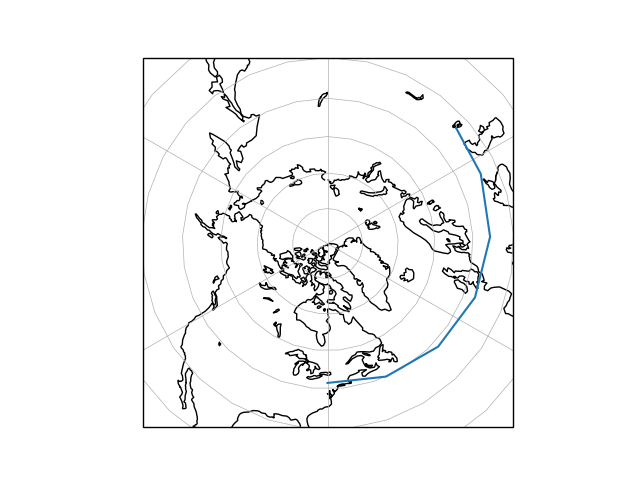
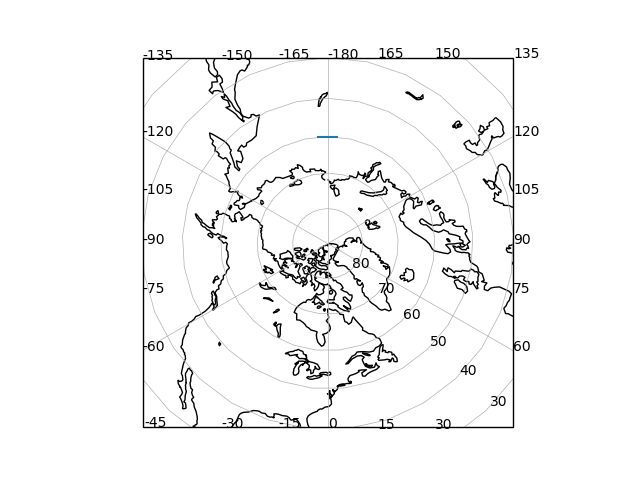
long and lat working first take

diff --git a/aacgm_carto.py b/aacgm_carto.py
@@ -2,7 +2,7 @@ import cartopy
 from cartopy.mpl.geoaxes import GeoAxes
 import aacgmv2
 import numpy
-from shapely.geometry import  MultiLineString, mapping, shape
+from shapely.geometry import  MultiLineString, mapping, LineString, Polygon
 from matplotlib.projections import register_projection
 import copy
 import datetime
@@ -13,62 +13,57 @@ class AxesAACGM(GeoAxes):
         
     def __init__(self, *args, **kwargs):
         if "map_projection" in kwargs:
-            map_projection=kwargs.pop("map_projection")
+            map_projection = kwargs.pop("map_projection")
         else:
             map_projection = cartopy.crs.NorthPolarStereo()
             print("map_projection keyword not set, setting it to cartopy.crs.NorthPolarStereo()")
+        # first check if datetime keyword is given!
+        # it should be since we need it for aacgm
+        if "plot_date" in kwargs:
+            self.plot_date = kwargs.pop("plot_date")
+        else:
+            raise TypeError("need to provide a date using 'plot_date' keyword for aacgmv2 plotting")
+        # Now work with the coords!
+        supported_coords = [ "geo", "aacgmv2", "aacgmv2_mlt" ]
+        if "coords" in kwargs:
+            self.coords = kwargs.pop("coords")
+            if self.coords not in supported_coords:
+                err_str = "coordinates not supported, choose from : "
+                for _n,_sc in enumerate(supported_coords):
+                    if _n + 1 != len(supported_coords):
+                        err_str += _sc + ", "
+                    else:
+                        err_str += _sc
+                raise TypeError(err_str)
+        else:
+            self.coords = "aacgmv2"
+            print("coords keyword not set, setting it to aacgmv2")
+        # finally, initialize te GeoAxes object
         GeoAxes.__init__(self, map_projection=map_projection,*args, **kwargs)
 
-    def overaly_coast_lakes(self, coords="aacgmv2", plot_date=None,\
-                  resolution='110m', color='black', **kwargs):
+    def overaly_coast_lakes(self, resolution='110m', color='black', **kwargs):
         """
         Overlay AACGM coastlines and lakes
         """
-        supported_coords = [ "geo", "aacgmv2", "aacgmv2_mlt" ]
-        if coords not in supported_coords:
-            print("coordinates not supported, choose from ", supported_coords)
-            return
-        if (coords != "geo") and (datetime == None):
-            print("Your need to set datetime keyword for plotting in AACGM")
-            return
-
         kwargs['edgecolor'] = color
         kwargs['facecolor'] = 'none'
         # overaly coastlines
         feature = cartopy.feature.NaturalEarthFeature('physical', 'coastline',
                                                       resolution, **kwargs)
-        self.add_feature( cartopy.feature.COASTLINE, coords=coords,\
-                                plot_date=plot_date, **kwargs )
-        self.add_feature( cartopy.feature.LAKES, coords=coords,\
-                                plot_date=plot_date, **kwargs )
+        self.add_feature( cartopy.feature.COASTLINE, **kwargs )
+        self.add_feature( cartopy.feature.LAKES, **kwargs )
         
-    def coastlines(self, coords="aacgmv2", plot_date=None,\
-                  resolution='110m', color='black', **kwargs):
-        supported_coords = [ "geo", "aacgmv2", "aacgmv2_mlt" ]
-        if coords not in supported_coords:
-            print("coordinates not supported, choose from ", supported_coords)
-            return
-        if (coords != "geo") and (datetime == None):
-            print("Your need to set datetime keyword for plotting in AACGM")
-            return
-        # actual details!
+    def coastlines(self,resolution='110m', color='black', **kwargs):
+        # details!
         kwargs['edgecolor'] = color
         kwargs['facecolor'] = 'none'
         feature = cartopy.feature.NaturalEarthFeature('physical', 'coastline',
                                                       resolution, **kwargs)
-        return self.add_feature(feature, coords=coords,\
-                                plot_date=plot_date, **kwargs)
+        return self.add_feature(feature, **kwargs)
         
-    def add_feature(self, feature, coords="aacgmv2", plot_date=None, **kwargs):
-        supported_coords = [ "geo", "aacgmv2", "aacgmv2_mlt" ]
-        if coords not in supported_coords:
-            print("coordinates not supported, choose from ", supported_coords)
-            return
-        if (coords != "geo") and (datetime == None):
-            print("Your need to set datetime keyword for plotting in AACGM")
-            return
-        aacgm_geom = self.get_aacgm_geom(feature, plot_date)
-        aacgm_feature = cartopy.feature.ShapelyFeature(aacgm_geom, cartopy.crs.PlateCarree(),\
+    def add_feature(self, feature, **kwargs):
+        aacgm_geom = self.get_aacgm_geom(feature)
+        aacgm_feature = cartopy.feature.ShapelyFeature(aacgm_geom, cartopy.crs.Geodetic(),\
                                                  **kwargs)
         # Now we'll set facecolor as None because aacgm doesn't close
         # continents near equator and it turns into a problem
@@ -79,7 +74,7 @@ class AxesAACGM(GeoAxes):
         kwargs['facecolor'] = "none"
         super().add_feature(aacgm_feature, **kwargs)
         
-    def get_aacgm_geom(self, feature, plot_date, out_height=300. ):
+    def get_aacgm_geom(self, feature, out_height=300. ):
         new_i = []
         # cartopy.feature.COASTLINE
         for _n,i in enumerate(feature.geometries()):
@@ -94,7 +89,7 @@ class AxesAACGM(GeoAxes):
                 else:
                     _loop_list = _list
                 for _ngc, _gc in enumerate(_loop_list):
-                    _mc = aacgmv2.get_aacgm_coord(_gc[1], _gc[0], out_height, plot_date)
+                    _mc = aacgmv2.get_aacgm_coord(_gc[1], _gc[0], out_height, self.plot_date)
                     if numpy.isnan(_mc[0]):
                         continue 
                     mlon_check_jump_list.append( _mc[1] )
@@ -129,6 +124,91 @@ class AxesAACGM(GeoAxes):
         aacgm_coast = MultiLineString( new_i )
         return aacgm_coast
 
+    def mark_latitudes(self, lat_arr, lon_location=45, **kwargs):
+        """
+        mark the latitudes
+        Write down the latitudes on the map for labeling!
+        we are using this because cartopy doesn't have a 
+        label by default for non-rectangular projections!
+        """
+        if isinstance(lat_arr, list):
+            lat_arr = numpy.array(lat_arr)
+        else:
+            if not isinstance(lat_arr, numpy.ndarray):
+                raise TypeError('lat_arr must either be a list or numpy array')
+        # make an array of lon_location
+        lon_location_arr = numpy.full( lat_arr.shape, lon_location )
+        proj_xyz = self.projection.transform_points(\
+                            cartopy.crs.Geodetic(),\
+                            lon_location_arr,\
+                            lat_arr
+                            )
+        # plot the lats now!
+        out_extent_lats = False
+        for _np,_pro in enumerate(proj_xyz[..., :2].tolist()):
+            # check if lats are out of extent! if so ignore them
+            lat_lim = self.get_extent(crs=cartopy.crs.Geodetic())[2::]
+            if (lat_arr[_np] >= min(lat_lim)) and (lat_arr[_np] <= max(lat_lim)):
+                self.text( _pro[0], _pro[1], str(lat_arr[_np]), **kwargs)
+            else:
+                out_extent_lats = True
+        if out_extent_lats:
+            print( "some lats were out of extent ignored them" )
+
+    def mark_longitudes(self, lon_arr, **kwargs):
+        """
+        mark the latitudes
+        Write down the latitudes on the map for labeling!
+        we are using this because cartopy doesn't have a 
+        label by default for non-rectangular projections!
+        """
+        if isinstance(lon_arr, list):
+            lon_arr = numpy.array(lon_arr)
+        else:
+            if not isinstance(lon_arr, numpy.ndarray):
+                raise TypeError('lat_arr must either be a list or numpy array')
+        # plot_outline = LineString(self.outline_patch.get_path().vertices.tolist())
+
+        [x1, y1], [x2, y2] = self.viewLim.get_points()
+
+        lsa = []
+
+        lsa.append( LineString(([-x1, y1], [x2, y2])) )
+        lsa.append( LineString(([x1, -y1], [x2, y2])) )
+        lsa.append( LineString(([x1, y1], [x2, -y2])) )
+        lsa.append( LineString(([x1, y1], [-x2, y2])) )
+        plot_outline = MultiLineString( lsa )
+
+
+        print("---------------------------------------------------------------------")
+        plot_extent = self.get_extent(cartopy.crs.Geodetic())
+        ticks = numpy.arange(-180,180,15)
+        # print(ticks)
+        # print(plot_extent)
+        ls_arr = []
+        line_constructor = lambda t, n, b: numpy.vstack((numpy.zeros(n) + t, numpy.linspace(b[2], b[3], n))).T
+        for t in ticks:
+            xy = line_constructor(t, 30, plot_extent)
+            # print(xy)
+            proj_xyz = self.projection.transform_points(cartopy.crs.PlateCarree(), xy[:, 0], xy[:, 1])
+            xyt = proj_xyz[..., :2]
+            ls = LineString(xyt.tolist())
+            locs = plot_outline.intersection(ls)
+            ls_arr.append(locs)
+            if not locs:
+                continue
+            print(locs)
+            print(locs.bounds[0],locs.bounds[1])#locs = axis.intersection(ls)
+            arr_loc = 0
+            self.text( locs.bounds[0],locs.bounds[1], str(t) )
+        # self.plot(*plot_outline.exterior.xy[0], *plot_outline.exterior.xy[1], color="r")
+#             print("------------")
+#             print(plot_outline)
+        print("---------------------------------------------------------------------")
+        return plot_outline, ls_arr, self.get_xlim(), self.viewLim.get_points(), locs
+
+
+
         
 # Now register the projection with matplotlib so the user can select
 # it.
@@ -138,19 +218,27 @@ if __name__ == "__main__":
     import matplotlib.pyplot as plt
     import datetime
     import cartopy
+    import numpy
 
     plot_date = datetime.datetime(2015,1,1)
     fig = plt.figure()
-    ax = fig.add_subplot(projection='aacgmv2',map_projection = cartopy.crs.NorthPolarStereo())
+    ax = fig.add_subplot(
+                projection='aacgmv2',\
+                map_projection = cartopy.crs.NorthPolarStereo(),\
+                coords="aacgmv2", plot_date=plot_date
+                )
     # uncomment lines below to add coastlines and lakes individually
-    # ax.coastlines(coords="aacgmv2", plot_date=plot_date)
-    # ax.add_feature( cartopy.feature.LAKES, plot_date=plot_date )
+    # ax.coastlines()
+    # ax.add_feature( cartopy.feature.LAKES)
     # or add coastlines and lakes together!
-    ax.overaly_coast_lakes(coords="aacgmv2", plot_date=plot_date)
+    ax.overaly_coast_lakes()
     # plot set the map bounds
     ax.set_extent([-180, 180, 40, 90], crs=cartopy.crs.PlateCarree())
     # plot a random line!
-    ax.plot([-0.08, 132], [51.53, 43.17], transform=cartopy.crs.PlateCarree())
+    # ax.scatter(54, 60, transform=cartopy.crs.Geodetic())
+    ax.plot( [-175, 175], [60,60], transform=cartopy.crs.Geodetic() )
     # overaly gridlines!
     ax.gridlines(linewidth=0.5)
+    ax.mark_latitudes(numpy.arange(20,90,10), fontsize=10)
+    ax.mark_longitudes(numpy.arange(20,90,10), fontsize=10)
     plt.savefig( "test_plots/carto_test.png" )
